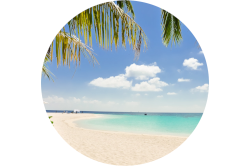
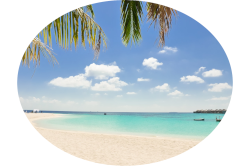
Alteração do tamanho da imagem

diff --git a/assets/script.js b/assets/script.js
@@ -2,8 +2,8 @@ function carregar() {
     var msg = document.getElementById('msg')
     var img = document.getElementById('imagem')
     var data = new Date()
-    var hora = data.getHours()
-    //var hora = 16
+    //var hora = data.getHours()
+    var hora = 20
     msg.innerHTML = `Agora são ${hora} horas`
     if(hora >= 0 &&  hora < 12) {
         // Bom dia!
